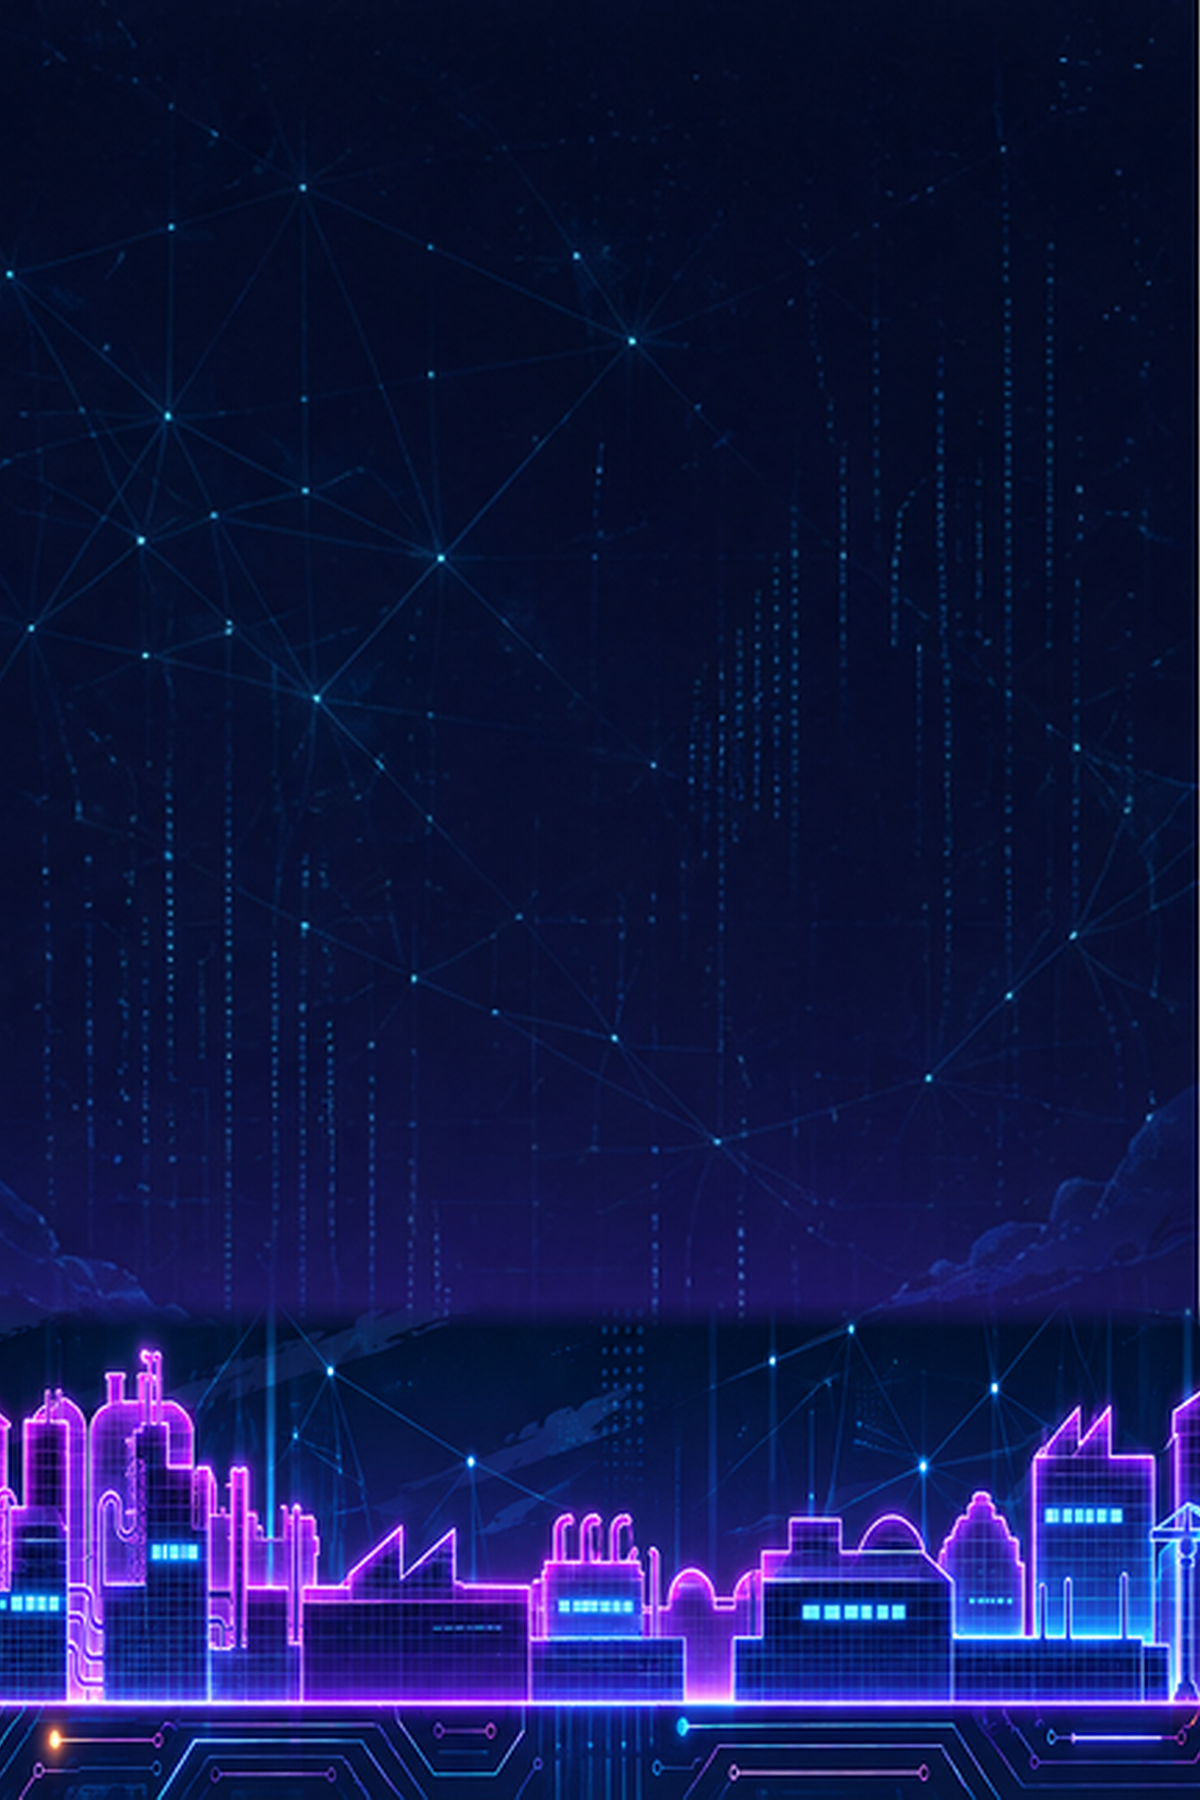
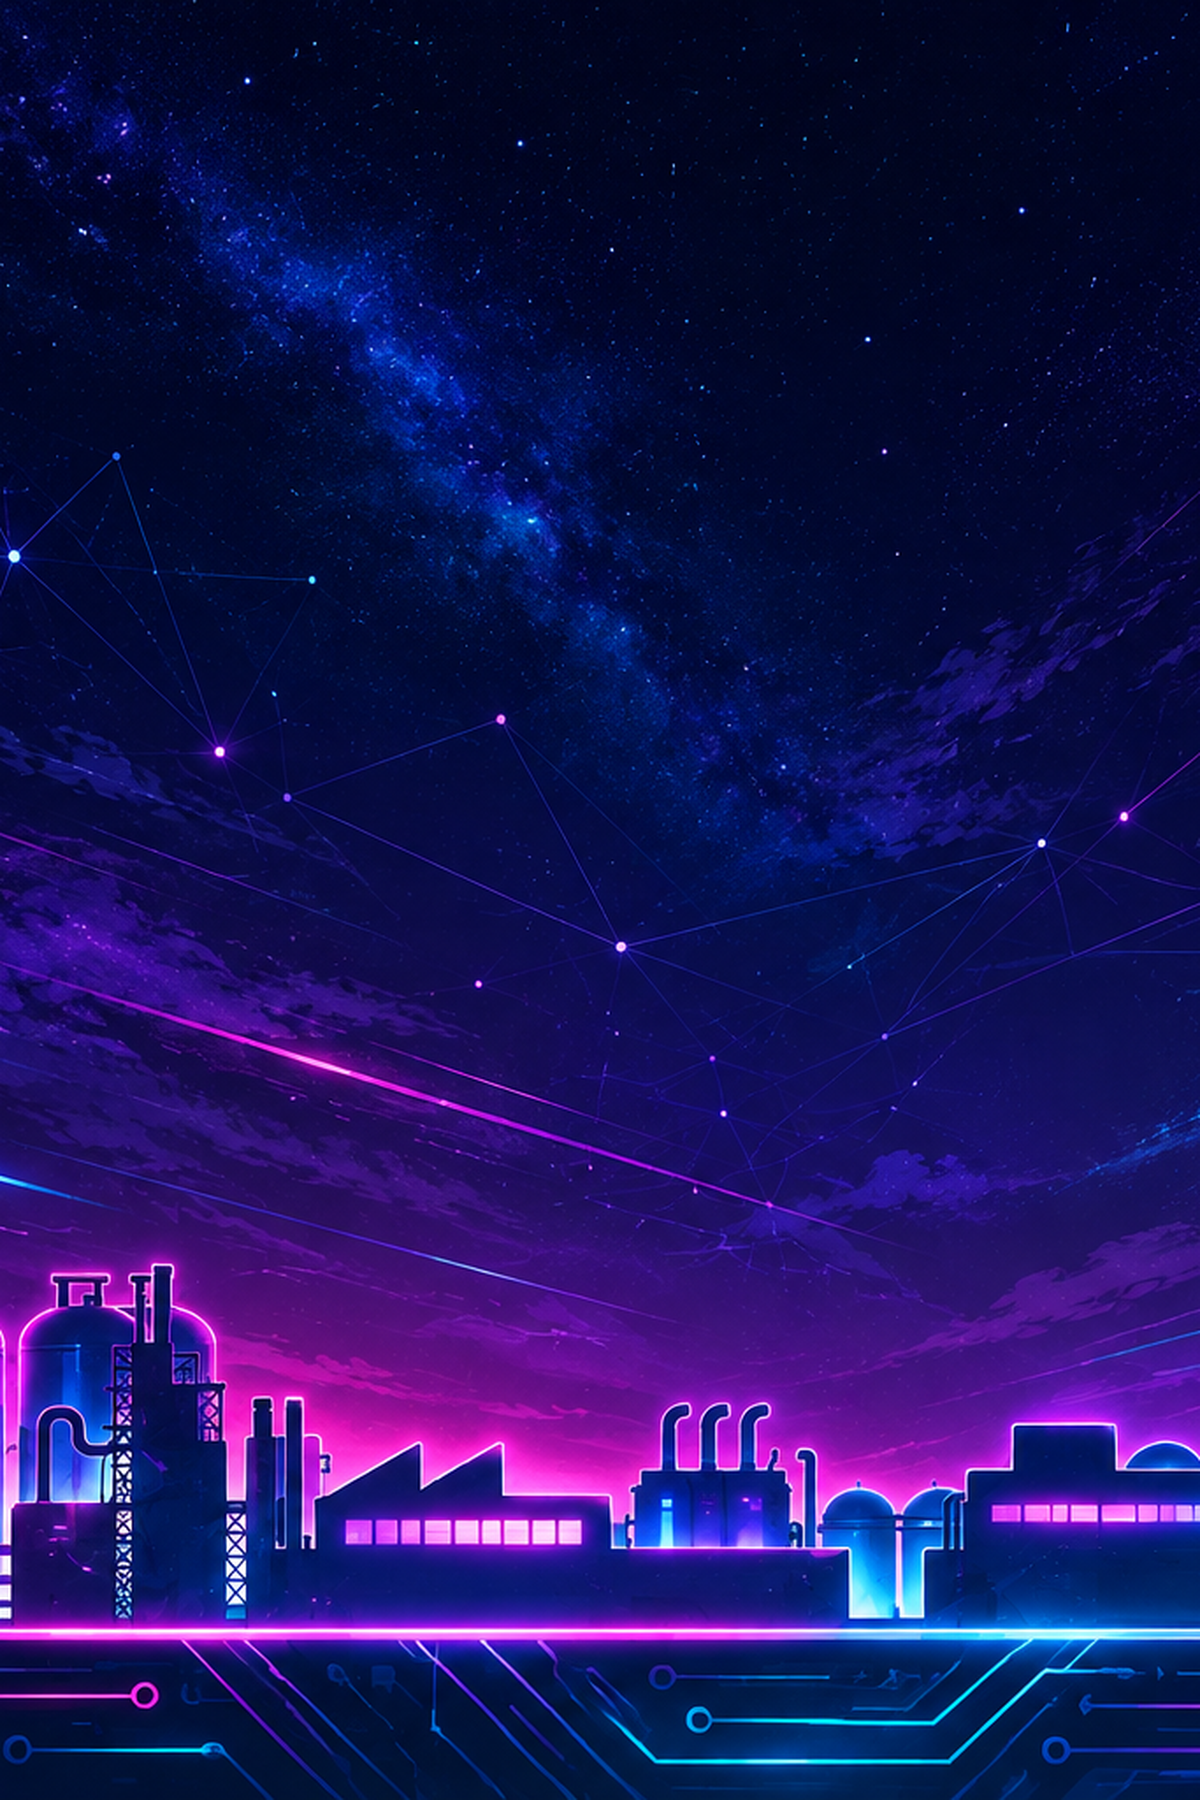
feat(v1): updates to skyline images

diff --git a/src/app/v1/styles/foundation.css b/src/app/v1/styles/foundation.css
@@ -788,8 +788,12 @@
 }
 
 .v1-background-skyline-rocket,
+.v1-background-skyline-rocket-night,
 .v1-background-skyline-green,
-.v1-background-skyline-neon {
+.v1-background-skyline-neon,
+.v1-background-skyline-aurora,
+.v1-background-skyline-blueprint,
+.v1-background-skyline-steel {
   --v1-skyline-scrim: transparent;
   --v1-skyline-background:
     linear-gradient(var(--v1-skyline-scrim), var(--v1-skyline-scrim)),
@@ -805,6 +809,11 @@
   --v1-skyline-art: url('../../../assets/images/skylines/skyline-rocket.png');
 }
 
+.v1-root.v1-background-skyline-rocket-night {
+  --v1-skyline-art: url('../../../assets/images/skylines/skyline-rocket-night.png');
+  --v1-skyline-scrim: color-mix(in srgb, var(--v1-bg) 28%, transparent);
+}
+
 .v1-root.v1-background-skyline-green {
   --v1-skyline-art: url('../../../assets/images/skylines/skyline-green.png');
 }
@@ -813,7 +822,21 @@
   --v1-skyline-art: url('../../../assets/images/skylines/skyline-neon.png');
 }
 
-.v1-root:is(.v1-background-skyline-rocket, .v1-background-skyline-green, .v1-background-skyline-neon) .v1-workspace .v1-workspace__main {
+.v1-root.v1-background-skyline-aurora {
+  --v1-skyline-art: url('../../../assets/images/skylines/skyline-aurora.png');
+  --v1-skyline-scrim: color-mix(in srgb, var(--v1-bg) 24%, transparent);
+}
+
+.v1-root.v1-background-skyline-blueprint {
+  --v1-skyline-art: url('../../../assets/images/skylines/skyline-engineering-sketch.png');
+}
+
+.v1-root.v1-background-skyline-steel {
+  --v1-skyline-art: url('../../../assets/images/skylines/skyline-steel-cnc.png');
+  --v1-skyline-scrim: color-mix(in srgb, var(--v1-bg) 18%, transparent);
+}
+
+.v1-root:is(.v1-background-skyline-rocket, .v1-background-skyline-rocket-night, .v1-background-skyline-green, .v1-background-skyline-neon, .v1-background-skyline-aurora, .v1-background-skyline-blueprint, .v1-background-skyline-steel) .v1-workspace .v1-workspace__main {
   background-image: var(--v1-skyline-background);
   background-position: center, center bottom;
   background-repeat: no-repeat;
@@ -825,6 +848,10 @@
   --v1-skyline-art: url('../../../assets/images/skylines/skyline-rocket-night.png');
 }
 
+.v1-theme-dark.v1-background-skyline-rocket-night {
+  --v1-skyline-scrim: color-mix(in srgb, var(--v1-bg) 12%, transparent);
+}
+
 @media (max-width: 760px) {
   .v1-root.v1-background-skyline-rocket {
     --v1-skyline-art: url('../../../assets/images/skylines/skyline-rocket-mobile.png');
@@ -834,12 +861,28 @@
     --v1-skyline-art: url('../../../assets/images/skylines/skyline-rocket-night-mobile.png');
   }
 
+  .v1-root.v1-background-skyline-rocket-night {
+    --v1-skyline-art: url('../../../assets/images/skylines/skyline-rocket-night-mobile.png');
+  }
+
   .v1-root.v1-background-skyline-green {
     --v1-skyline-art: url('../../../assets/images/skylines/skyline-green-mobile.png');
   }
 
   .v1-root.v1-background-skyline-neon {
     --v1-skyline-art: url('../../../assets/images/skylines/skyline-neon-mobile.png');
+  }
+
+  .v1-root.v1-background-skyline-aurora {
+    --v1-skyline-art: url('../../../assets/images/skylines/skyline-aurora-mobile.png');
+  }
+
+  .v1-root.v1-background-skyline-blueprint {
+    --v1-skyline-art: url('../../../assets/images/skylines/skyline-engineering-sketch-mobile.png');
+  }
+
+  .v1-root.v1-background-skyline-steel {
+    --v1-skyline-art: url('../../../assets/images/skylines/skyline-steel-cnc-mobile.png');
   }
 }
 
@@ -851,11 +894,23 @@
   --v1-skyline-scrim: color-mix(in srgb, var(--v1-bg) 12%, transparent);
 }
 
-.v1-contrast-strong:is(.v1-background-skyline-rocket, .v1-background-skyline-green, .v1-background-skyline-neon) {
+.v1-theme-dark.v1-background-skyline-aurora {
+  --v1-skyline-scrim: color-mix(in srgb, var(--v1-bg) 12%, transparent);
+}
+
+.v1-theme-dark.v1-background-skyline-blueprint {
+  --v1-skyline-scrim: color-mix(in srgb, var(--v1-bg) 68%, transparent);
+}
+
+.v1-theme-dark.v1-background-skyline-steel {
+  --v1-skyline-scrim: color-mix(in srgb, var(--v1-bg) 34%, transparent);
+}
+
+.v1-contrast-strong:is(.v1-background-skyline-rocket, .v1-background-skyline-rocket-night, .v1-background-skyline-green, .v1-background-skyline-neon, .v1-background-skyline-aurora, .v1-background-skyline-blueprint, .v1-background-skyline-steel) {
   --v1-skyline-scrim: color-mix(in srgb, var(--v1-bg) 65%, transparent);
 }
 
-.v1-theme-dark.v1-contrast-strong:is(.v1-background-skyline-rocket, .v1-background-skyline-neon) {
+.v1-theme-dark.v1-contrast-strong:is(.v1-background-skyline-rocket, .v1-background-skyline-rocket-night, .v1-background-skyline-neon, .v1-background-skyline-aurora) {
   --v1-skyline-scrim: color-mix(in srgb, var(--v1-bg) 35%, transparent);
 }
 

diff --git a/src/app/v1/styles/foundation.spec.ts b/src/app/v1/styles/foundation.spec.ts
@@ -18,7 +18,7 @@ describe('v1 foundation styles', () => {
   });
 
   it('fills the shared v1 background with bottom-anchored skyline artwork', () => {
-    const rule = ruleFor('.v1-background-skyline-rocket,\n.v1-background-skyline-green,\n.v1-background-skyline-neon');
+    const rule = ruleFor('.v1-background-skyline-rocket,\n.v1-background-skyline-rocket-night,\n.v1-background-skyline-green,\n.v1-background-skyline-neon,\n.v1-background-skyline-aurora,\n.v1-background-skyline-blueprint,\n.v1-background-skyline-steel');
 
     expect(rule).toContain('background-position: center, center bottom');
     expect(rule).toContain('background-repeat: no-repeat');
@@ -26,7 +26,7 @@ describe('v1 foundation styles', () => {
   });
 
   it('scopes the workspace skyline to the central scroll pane', () => {
-    const rule = ruleFor('.v1-root:is(.v1-background-skyline-rocket, .v1-background-skyline-green, .v1-background-skyline-neon) .v1-workspace .v1-workspace__main');
+    const rule = ruleFor('.v1-root:is(.v1-background-skyline-rocket, .v1-background-skyline-rocket-night, .v1-background-skyline-green, .v1-background-skyline-neon, .v1-background-skyline-aurora, .v1-background-skyline-blueprint, .v1-background-skyline-steel) .v1-workspace .v1-workspace__main');
 
     expect(rule).toContain('background-image: var(--v1-skyline-background)');
     expect(rule).toContain('background-position: center, center bottom');
@@ -39,13 +39,28 @@ describe('v1 foundation styles', () => {
     expect(rule).toContain("--v1-skyline-art: url('../../../assets/images/skylines/skyline-rocket-night.png')");
     expect(rule).not.toContain('--v1-skyline-sky');
     expect(rule).not.toContain('--v1-skyline-stars');
+    expect(ruleFor('.v1-root.v1-background-skyline-rocket-night'))
+      .toContain("url('../../../assets/images/skylines/skyline-rocket-night.png')");
   });
 
-  it('maps the green and neon skyline options to their artwork', () => {
+  it('maps each palette skyline option to its artwork', () => {
     expect(ruleFor('.v1-root.v1-background-skyline-green'))
       .toContain("url('../../../assets/images/skylines/skyline-green.png')");
     expect(ruleFor('.v1-root.v1-background-skyline-neon'))
       .toContain("url('../../../assets/images/skylines/skyline-neon.png')");
+    expect(ruleFor('.v1-root.v1-background-skyline-aurora'))
+      .toContain("url('../../../assets/images/skylines/skyline-aurora.png')");
+    expect(ruleFor('.v1-root.v1-background-skyline-blueprint'))
+      .toContain("url('../../../assets/images/skylines/skyline-engineering-sketch.png')");
+    expect(ruleFor('.v1-root.v1-background-skyline-steel'))
+      .toContain("url('../../../assets/images/skylines/skyline-steel-cnc.png')");
+  });
+
+  it('retains the generated blueprint grid and steel hatch backgrounds', () => {
+    expect(ruleFor('.v1-background-blueprint-grid')).toContain('linear-gradient');
+    expect(ruleFor('.v1-background-blueprint-grid')).toContain('background-size: 1.5rem 1.5rem');
+    expect(ruleFor('.v1-background-steel-hatch')).toContain('repeating-linear-gradient');
+    expect(ruleFor('.v1-background-steel-hatch')).toContain('radial-gradient');
   });
 
   it('uses the portrait skyline artwork on narrow screens', () => {
@@ -53,6 +68,9 @@ describe('v1 foundation styles', () => {
     expect(foundationCss).toContain("url('../../../assets/images/skylines/skyline-rocket-night-mobile.png')");
     expect(foundationCss).toContain("url('../../../assets/images/skylines/skyline-green-mobile.png')");
     expect(foundationCss).toContain("url('../../../assets/images/skylines/skyline-neon-mobile.png')");
+    expect(foundationCss).toContain("url('../../../assets/images/skylines/skyline-aurora-mobile.png')");
+    expect(foundationCss).toContain("url('../../../assets/images/skylines/skyline-engineering-sketch-mobile.png')");
+    expect(foundationCss).toContain("url('../../../assets/images/skylines/skyline-steel-cnc-mobile.png')");
   });
 
   function ruleFor(selector: string): string {

diff --git a/src/app/v1/shell/shell.component.spec.ts b/src/app/v1/shell/shell.component.spec.ts
@@ -82,6 +82,58 @@ describe('ShellComponent', () => {
     const root = fixture.nativeElement.querySelector('.v1-root');
     expect(root.classList.contains('v1-background-skyline-neon')).toBe(true);
     expect(root.classList.contains('v1-background-skyline-green')).toBe(false);
+
+    appearance.settings.mockReturnValue({
+      palette: 'blueprint',
+      mode: 'light',
+      cornerStyle: 'soft',
+      highContrast: false,
+      backgroundPattern: 'skyline-blueprint'
+    });
+    fixture.destroy();
+    fixture = TestBed.createComponent(ShellComponent);
+    fixture.detectChanges();
+
+    expect(fixture.nativeElement.querySelector('.v1-root').classList.contains('v1-background-skyline-blueprint')).toBe(true);
+
+    appearance.settings.mockReturnValue({
+      palette: 'steel',
+      mode: 'dark',
+      cornerStyle: 'soft',
+      highContrast: false,
+      backgroundPattern: 'skyline-steel'
+    });
+    fixture.destroy();
+    fixture = TestBed.createComponent(ShellComponent);
+    fixture.detectChanges();
+
+    expect(fixture.nativeElement.querySelector('.v1-root').classList.contains('v1-background-skyline-steel')).toBe(true);
+
+    appearance.settings.mockReturnValue({
+      palette: 'aurora',
+      mode: 'dark',
+      cornerStyle: 'soft',
+      highContrast: false,
+      backgroundPattern: 'skyline-aurora'
+    });
+    fixture.destroy();
+    fixture = TestBed.createComponent(ShellComponent);
+    fixture.detectChanges();
+
+    expect(fixture.nativeElement.querySelector('.v1-root').classList.contains('v1-background-skyline-aurora')).toBe(true);
+
+    appearance.settings.mockReturnValue({
+      palette: 'default',
+      mode: 'light',
+      cornerStyle: 'soft',
+      highContrast: false,
+      backgroundPattern: 'skyline-rocket-night'
+    });
+    fixture.destroy();
+    fixture = TestBed.createComponent(ShellComponent);
+    fixture.detectChanges();
+
+    expect(fixture.nativeElement.querySelector('.v1-root').classList.contains('v1-background-skyline-rocket-night')).toBe(true);
   });
 
   it('hosts the shared shell header above routed content', () => {

diff --git a/src/app/v1/appearance/appearance.service.spec.ts b/src/app/v1/appearance/appearance.service.spec.ts
@@ -76,6 +76,14 @@ describe('AppearanceService', () => {
     });
   });
 
+  it('preserves legacy generated backgrounds and new skyline selections', () => {
+    const legacyService = new AppearanceService(createStorage({ backgroundPattern: 'blueprint-grid' }) as any);
+    const nightService = new AppearanceService(createStorage({ backgroundPattern: 'skyline-rocket-night' }) as any);
+
+    expect(legacyService.settings().backgroundPattern).toBe('blueprint-grid');
+    expect(nightService.settings().backgroundPattern).toBe('skyline-rocket-night');
+  });
+
   it('updates the matched background pattern when the palette changes', () => {
     const storage = createStorage({});
     const service = new AppearanceService(storage as any);
@@ -84,10 +92,13 @@ describe('AppearanceService', () => {
     expect(service.settings().backgroundPattern).toBe('skyline-neon');
 
     service.setPalette('aurora');
-    expect(service.settings().backgroundPattern).toBe('aurora-flow');
+    expect(service.settings().backgroundPattern).toBe('skyline-aurora');
 
     service.setPalette('steel');
-    expect(service.settings().backgroundPattern).toBe('steel-hatch');
+    expect(service.settings().backgroundPattern).toBe('skyline-steel');
+
+    service.setPalette('blueprint');
+    expect(service.settings().backgroundPattern).toBe('skyline-blueprint');
 
     service.setPalette('forest');
     expect(service.settings().backgroundPattern).toBe('skyline-green');

diff --git a/src/app/v1/shell/header/shell-header.component.spec.ts b/src/app/v1/shell/header/shell-header.component.spec.ts
@@ -25,15 +25,21 @@ describe('ShellHeaderComponent', () => {
     expect(menuText).toContain('High contrast');
     expect(menuText).toContain('Background');
     expect(menuText).toContain('Skyline rocket');
+    expect(menuText).toContain('Night skyline rocket');
     expect(menuText).toContain('Green skyline');
     expect(menuText).toContain('Neon skyline');
+    expect(menuText).toContain('Aurora skyline');
+    expect(menuText).toContain('Blueprint skyline');
+    expect(menuText).toContain('Steel skyline');
+    expect(menuText).toContain('Blueprint grid');
+    expect(menuText).toContain('Machined hatch');
     expect(menuText).toContain('Topographic contours');
 
     const backgroundSelect: HTMLSelectElement = fixture.nativeElement.querySelector('[aria-label="Background pattern"]');
-    backgroundSelect.value = 'skyline-neon';
+    backgroundSelect.value = 'skyline-rocket-night';
     backgroundSelect.dispatchEvent(new Event('change'));
 
-    expect(appearance.setBackgroundPattern).toHaveBeenCalledWith('skyline-neon');
+    expect(appearance.setBackgroundPattern).toHaveBeenCalledWith('skyline-rocket-night');
   });
 
   it('shows the account dropdown and support panel control on workspace routes', () => {

diff --git a/src/app/v1/appearance/appearance.service.ts b/src/app/v1/appearance/appearance.service.ts
@@ -8,8 +8,12 @@ export type ThemeMode = 'light' | 'dark';
 export type CornerStyle = 'soft' | 'square';
 export type BackgroundPattern =
   | 'skyline-rocket'
+  | 'skyline-rocket-night'
   | 'skyline-green'
   | 'skyline-neon'
+  | 'skyline-aurora'
+  | 'skyline-blueprint'
+  | 'skyline-steel'
   | 'blueprint-grid'
   | 'steel-hatch'
   | 'neon-grid'
@@ -37,8 +41,12 @@ const VALID_MODES: ReadonlyArray<ThemeMode> = ['light', 'dark'];
 const VALID_CORNER_STYLES: ReadonlyArray<CornerStyle> = ['soft', 'square'];
 const VALID_BACKGROUND_PATTERNS: ReadonlyArray<BackgroundPattern> = [
   'skyline-rocket',
+  'skyline-rocket-night',
   'skyline-green',
   'skyline-neon',
+  'skyline-aurora',
+  'skyline-blueprint',
+  'skyline-steel',
   'blueprint-grid',
   'steel-hatch',
   'neon-grid',
@@ -47,10 +55,10 @@ const VALID_BACKGROUND_PATTERNS: ReadonlyArray<BackgroundPattern> = [
 ];
 const PALETTE_BACKGROUND_PATTERNS: Readonly<Record<Palette, BackgroundPattern>> = {
   default: 'skyline-rocket',
-  steel: 'steel-hatch',
-  blueprint: 'blueprint-grid',
+  steel: 'skyline-steel',
+  blueprint: 'skyline-blueprint',
   neon: 'skyline-neon',
-  aurora: 'aurora-flow',
+  aurora: 'skyline-aurora',
   forest: 'skyline-green'
 };
 

diff --git a/src/app/v1/shell/shell.component.html b/src/app/v1/shell/shell.component.html
@@ -11,8 +11,12 @@
   [class.v1-corners-square]="settings.cornerStyle === 'square'"
   [class.v1-contrast-strong]="settings.highContrast"
   [class.v1-background-skyline-rocket]="settings.backgroundPattern === 'skyline-rocket'"
+  [class.v1-background-skyline-rocket-night]="settings.backgroundPattern === 'skyline-rocket-night'"
   [class.v1-background-skyline-green]="settings.backgroundPattern === 'skyline-green'"
   [class.v1-background-skyline-neon]="settings.backgroundPattern === 'skyline-neon'"
+  [class.v1-background-skyline-aurora]="settings.backgroundPattern === 'skyline-aurora'"
+  [class.v1-background-skyline-blueprint]="settings.backgroundPattern === 'skyline-blueprint'"
+  [class.v1-background-skyline-steel]="settings.backgroundPattern === 'skyline-steel'"
   [class.v1-background-blueprint-grid]="settings.backgroundPattern === 'blueprint-grid'"
   [class.v1-background-steel-hatch]="settings.backgroundPattern === 'steel-hatch'"
   [class.v1-background-neon-grid]="settings.backgroundPattern === 'neon-grid'"

diff --git a/src/app/v1/shell/header/shell-header.component.ts b/src/app/v1/shell/header/shell-header.component.ts
@@ -51,8 +51,12 @@ export class ShellHeaderComponent {
 
   readonly patternOptions: Array<PatternOption> = [
     { id: 'skyline-rocket', label: 'Skyline rocket' },
+    { id: 'skyline-rocket-night', label: 'Night skyline rocket' },
     { id: 'skyline-green', label: 'Green skyline' },
     { id: 'skyline-neon', label: 'Neon skyline' },
+    { id: 'skyline-aurora', label: 'Aurora skyline' },
+    { id: 'skyline-blueprint', label: 'Blueprint skyline' },
+    { id: 'skyline-steel', label: 'Steel skyline' },
     { id: 'blueprint-grid', label: 'Blueprint grid' },
     { id: 'steel-hatch', label: 'Machined hatch' },
     { id: 'neon-grid', label: 'Neon grid' },
